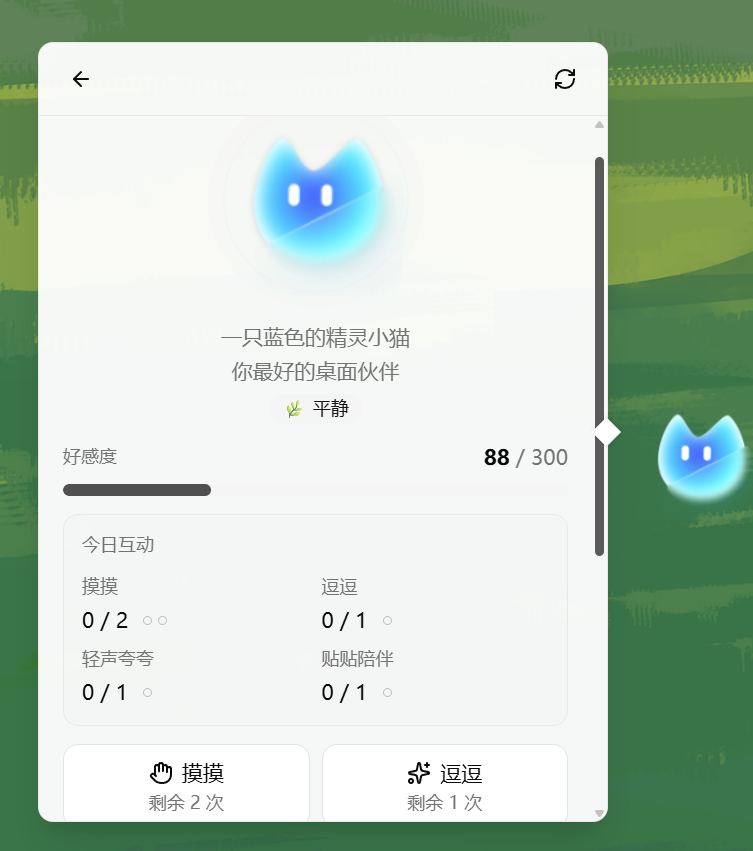
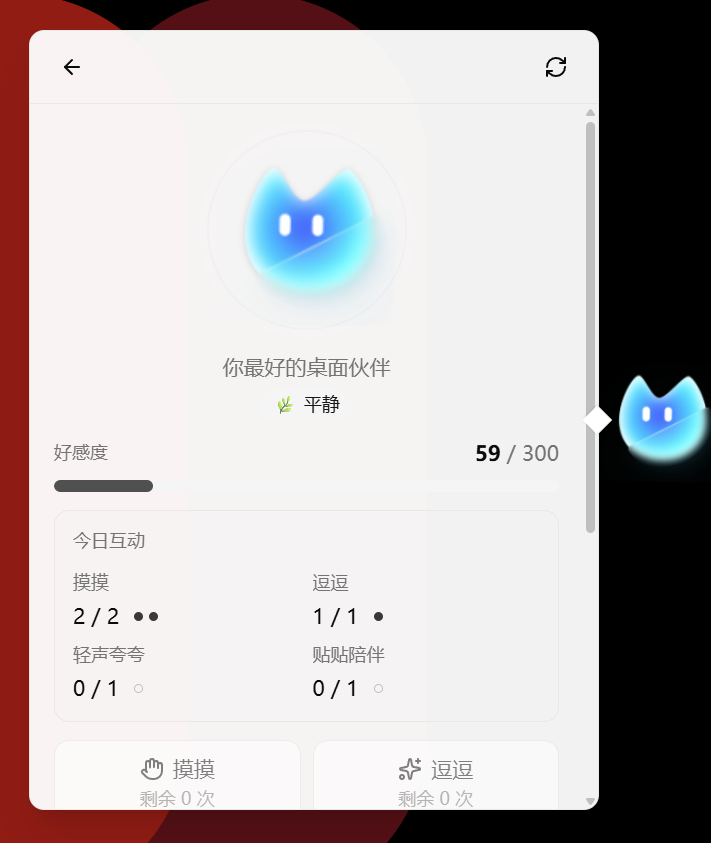
feat: update README with new screenshot features and adjust catPanelGap in controller

diff --git a/tests/smoke/cat-window-input-smoke.ts b/tests/smoke/cat-window-input-smoke.ts
@@ -62,7 +62,7 @@ assert.match(main, /resolveCatDockTargetX\(workArea, dockSide, catVisualAreas\[d
 assert.match(main, /function setCatHitGeometry/)
 assert.match(main, /resolveCatVisibleBounds\(catBounds, catVisualAreas\[dockSide\]\)/)
 assert.match(main, /function repositionCatPanelWindow/)
-assert.match(main, /const catPanelGap = 4/)
+assert.match(main, /const catPanelGap = 12/)
 assert.match(main, /const catBubbleGap = 2/)
 assert.match(main, /catTopmostWatchdogMs/)
 assert.match(electronMain, /scheme: CAT_APPEARANCE_ASSET_PROTOCOL[\s\S]*?corsEnabled: true/)

diff --git a/packages/desktop-pet/electron/controller.ts b/packages/desktop-pet/electron/controller.ts
@@ -90,7 +90,7 @@ const catBubbleSize = {
   height: 116,
 }
 
-const catPanelGap = 4
+const catPanelGap = 12
 const catBubbleGap = 2
 const catPanelCardInset = 20
 const catBubbleCardInset = 14

diff --git a/README.md b/README.md
@@ -86,6 +86,18 @@ OmniPaw comes with three companions, each with a distinct personality, story, an
   </tr>
 </table>
 
+<p align="center">
+  <img src="public/photo-short-cut.png" alt="Quick actions for sending a screenshot to OmniPaw" width="64%" />
+  <br />
+  <strong>Quick Screenshot Actions</strong>
+</p>
+
+<p align="center">
+  <img src="public/websearch.png" alt="OmniPaw web search response with source citations" width="100%" />
+  <br />
+  <strong>Web Search with Source Citations</strong>
+</p>
+
 ## Tech Stack
 
 | Layer | Technology |

diff --git a/README.zh-CN.md b/README.zh-CN.md
@@ -85,6 +85,18 @@ OmniPaw 内置三位伙伴，每位伙伴都有独特的性格、故事和陪伴
   </tr>
 </table>
 
+<p align="center">
+  <img src="public/photo-short-cut.png" alt="将截图快捷发送给 OmniPaw" width="64%" />
+  <br />
+  <strong>截图后的快捷发送</strong>
+</p>
+
+<p align="center">
+  <img src="public/websearch.png" alt="OmniPaw Web Search 回答与来源引用" width="100%" />
+  <br />
+  <strong>Web Search 支持与来源引用</strong>
+</p>
+
 ## 技术栈
 
 | 层级 | 技术 |
